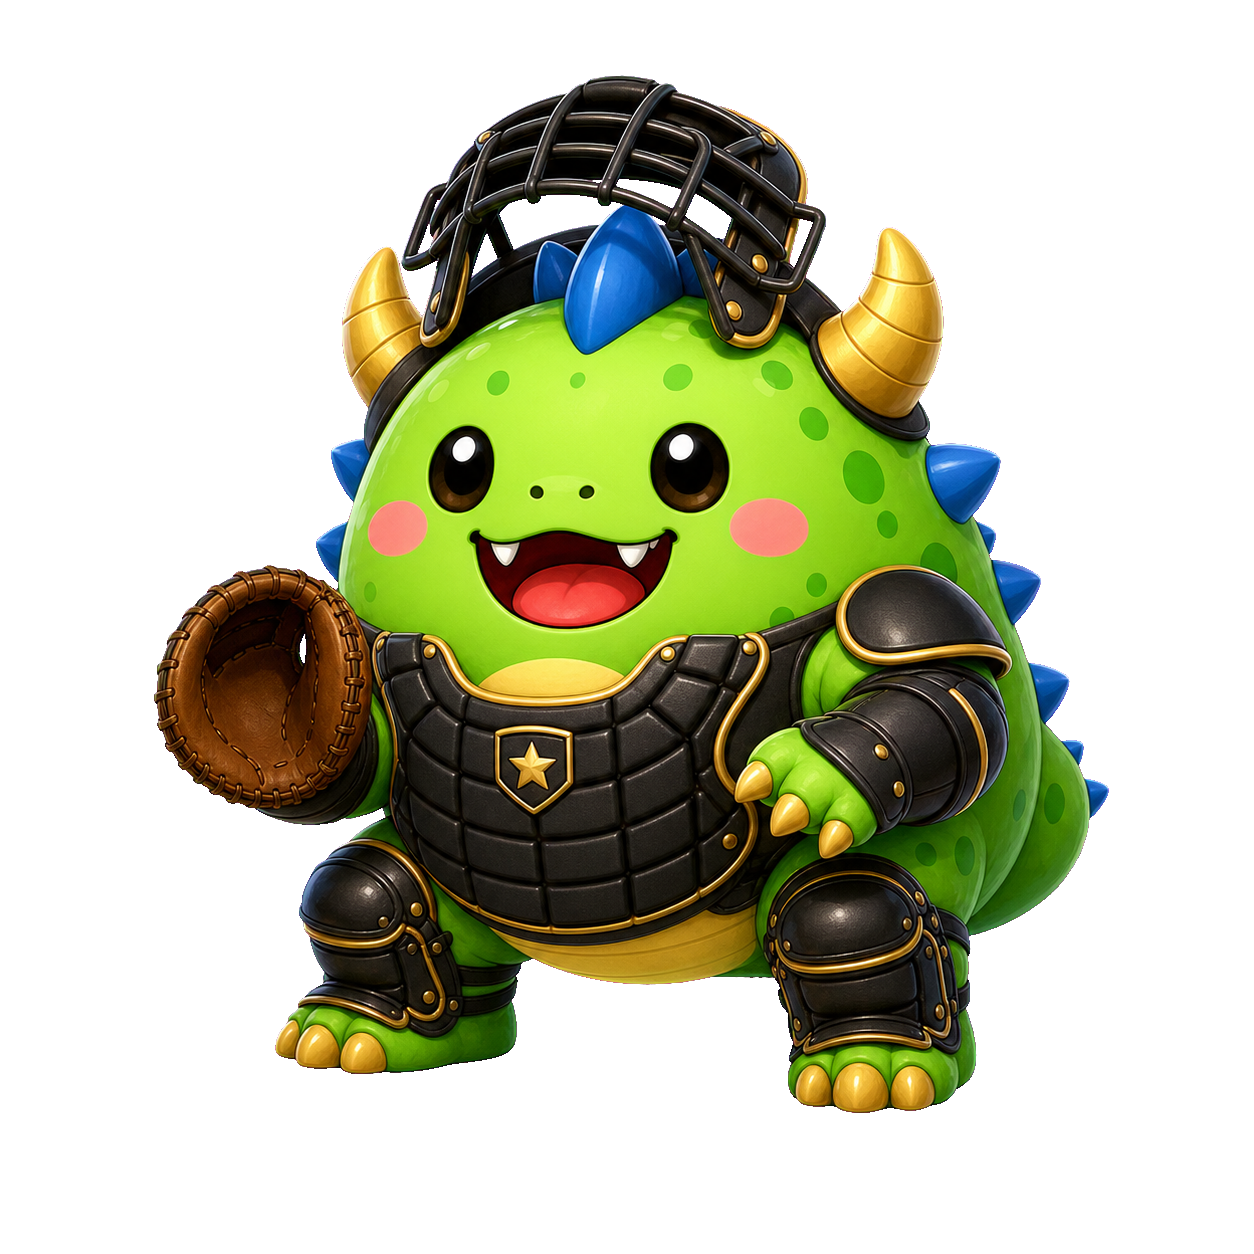
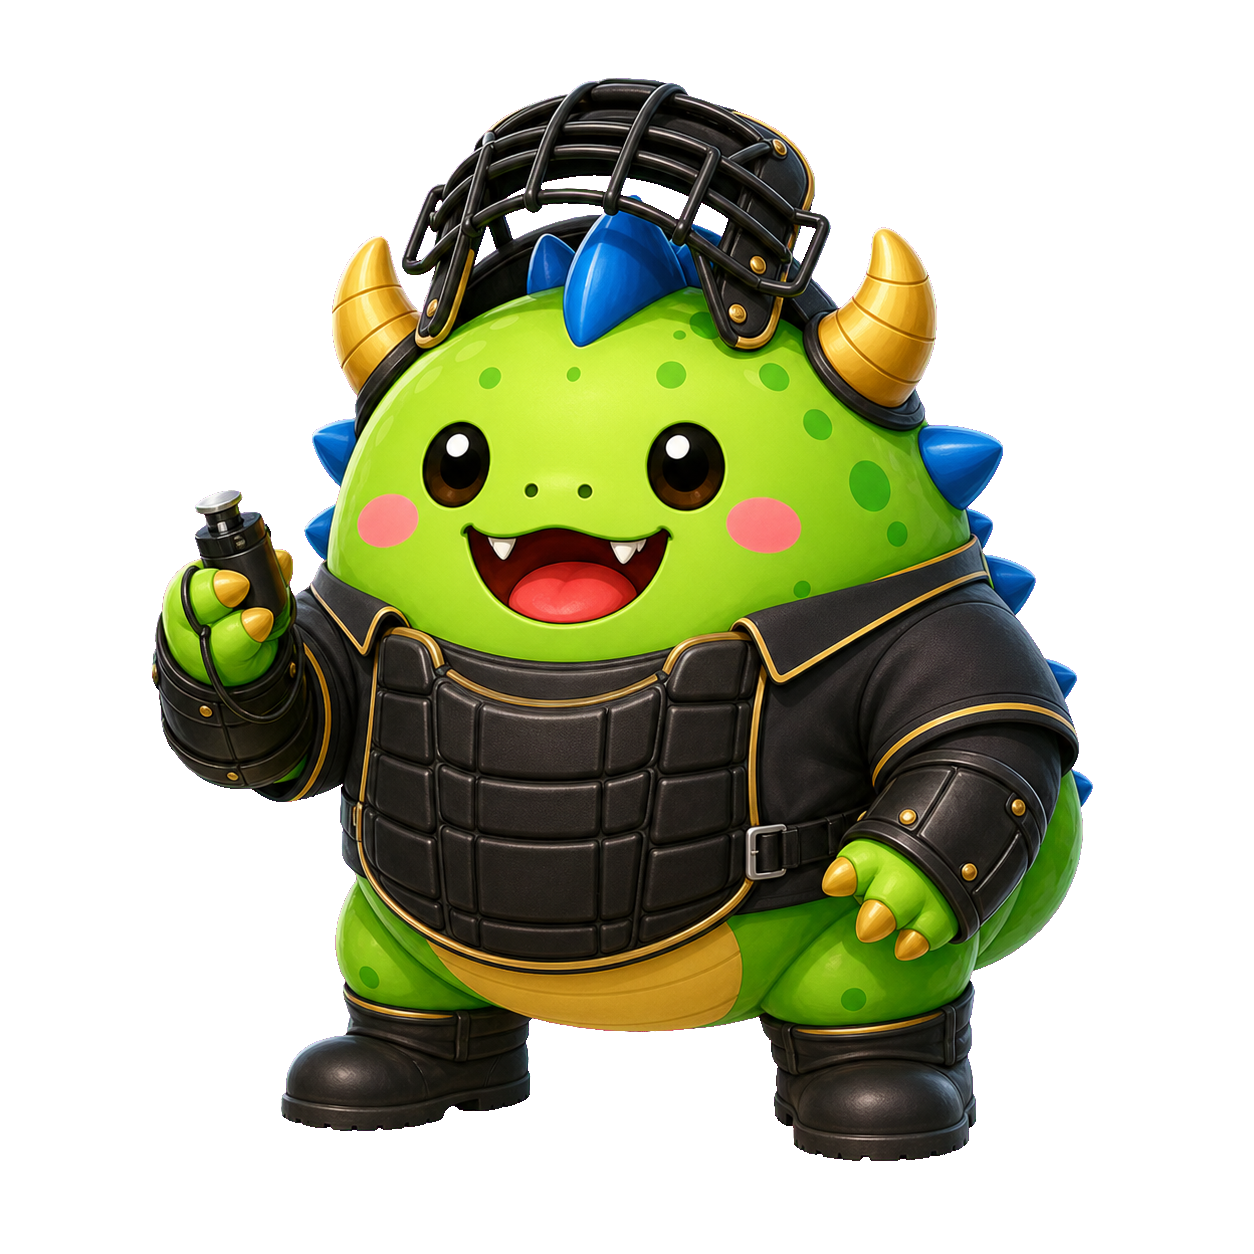
전체적인 오류 수정1

Changed region(s): [[0.1244, 0.0622, 0.9019, 0.933]]

diff --git a/script.js b/script.js
@@ -1,4 +1,5 @@
 const STORAGE_KEY = 'baseballMonsterHunterSave';
+const MAX_GOLD = 10000;
 
 const PAGE_CONFIG = {
   // 다음 화면을 별도 파일로 만들면 null 대신 실제 파일명을 넣으면 됩니다.
@@ -108,6 +109,7 @@ const DEFAULT_GAME_STATE = {
     muted: false,
   },
   claimedStageRewards: {},
+  goldCapNotified: false,
   tutorialFlags: {
     representativeBatterSet: false,
     representativePitcherSet: false,
@@ -153,7 +155,7 @@ const STAGE_CONFIGS = {
   3: {
     monsterName: 'A 몬스터',
     monsterLevel: 3,
-    maxHp: 300,
+    maxHp: 1800,
     timeLimit: 30,
     attackDamage: 10,
     criticalChance: 0.05,
@@ -165,7 +167,7 @@ const STAGE_CONFIGS = {
   4: {
     monsterName: 'A 몬스터',
     monsterLevel: 4,
-    maxHp: 450,
+    maxHp: 2700,
     timeLimit: 30,
     attackDamage: 10,
     criticalChance: 0.05,
@@ -177,7 +179,7 @@ const STAGE_CONFIGS = {
   5: {
     monsterName: 'A 몬스터',
     monsterLevel: 5,
-    maxHp: 600,
+    maxHp: 3800,
     timeLimit: 30,
     attackDamage: 10,
     criticalChance: 0.05,
@@ -189,7 +191,7 @@ const STAGE_CONFIGS = {
   6: {
     monsterName: 'A 몬스터',
     monsterLevel: 6,
-    maxHp: 780,
+    maxHp: 5100,
     timeLimit: 30,
     attackDamage: 10,
     criticalChance: 0.05,
@@ -201,7 +203,7 @@ const STAGE_CONFIGS = {
   7: {
     monsterName: 'A 몬스터',
     monsterLevel: 7,
-    maxHp: 960,
+    maxHp: 6600,
     timeLimit: 30,
     attackDamage: 10,
     criticalChance: 0.05,
@@ -213,7 +215,7 @@ const STAGE_CONFIGS = {
   8: {
     monsterName: 'A 몬스터',
     monsterLevel: 8,
-    maxHp: 1200,
+    maxHp: 8300,
     timeLimit: 30,
     attackDamage: 10,
     criticalChance: 0.05,
@@ -225,7 +227,7 @@ const STAGE_CONFIGS = {
   9: {
     monsterName: 'A 몬스터',
     monsterLevel: 9,
-    maxHp: 1500,
+    maxHp: 10200,
     timeLimit: 30,
     attackDamage: 10,
     criticalChance: 0.05,
@@ -238,7 +240,7 @@ const STAGE_CONFIGS = {
     monsterName: 'A 몬스터 BOSS',
     monsterLevel: 10,
     isBoss: true,
-    maxHp: 2400,
+    maxHp: 15000,
     timeLimit: 30,
     attackDamage: 10,
     criticalChance: 0.05,
@@ -328,6 +330,7 @@ function loadGameState() {
     return {
       ...defaultState,
       ...parsedData,
+      gold: Math.max(0, Math.min(MAX_GOLD, Math.floor(normalizeNumber(parsedData.gold)))),
       representativePlayer: {
         ...defaultState.representativePlayer,
         ...(parsedData.representativePlayer ?? {}),
@@ -377,14 +380,39 @@ function formatGold(value) {
   return `${Math.max(0, Math.floor(normalizeNumber(value))).toLocaleString('ko-KR')}G`;
 }
 
+function showGoldCapModal() {
+  $('#goldCapModal')?.classList.remove('is-hidden');
+}
+
+function setGoldAmount(value, { notifyCap = true } = {}) {
+  const previousGold = gameState.gold;
+  gameState.gold = Math.max(0, Math.min(MAX_GOLD, Math.floor(normalizeNumber(value))));
+
+  if (
+    notifyCap &&
+    previousGold < MAX_GOLD &&
+    gameState.gold >= MAX_GOLD &&
+    !gameState.goldCapNotified
+  ) {
+    gameState.goldCapNotified = true;
+    window.setTimeout(showGoldCapModal, 80);
+  }
+
+  return gameState.gold;
+}
+
+function changeGold(amount, options) {
+  return setGoldAmount(gameState.gold + normalizeNumber(amount), options);
+}
+
 function getModeName(mode) {
   return mode === 'defense' ? '수비' : '공격';
 }
 
 function getMonsterStageScale(stage) {
   const normalizedStage = Math.max(1, Math.floor(normalizeNumber(stage, 1)));
-  if (normalizedStage === 10) return 1.52;
-  return Math.min(1 + (normalizedStage - 1) * 0.055, 1.44);
+  const cappedStage = Math.min(normalizedStage, 10);
+  return 1 + (cappedStage - 1) * (0.8 / 9);
 }
 
 function getAttackConfigForStage(stage) {
@@ -399,7 +427,9 @@ function getStageMonsterDisplayName(config) {
 }
 
 function getStageClearReward(stage) {
-  return stage >= 3 && stage <= 9 ? (stage - 2) * 500 : 0;
+  if (stage >= 3 && stage <= 9) return 300;
+  if (stage === 10) return 1000;
+  return 0;
 }
 
 function getDefenseRewards() {
@@ -1236,7 +1266,7 @@ function selectPlayersSection(sectionName) {
 
 function completeBasicTutorial() {
   if (!gameState.tutorialFlags.tutorialCompletionRewardGranted) {
-    gameState.gold += 500;
+    changeGold(500);
     gameState.tutorialFlags.tutorialCompletionRewardGranted = true;
   }
   gameState.tutorialFlags.tutorialComplete = true;
@@ -1802,7 +1832,7 @@ function showDefenseResult(title, detail = '', resultType = '') {
 }
 
 function addDefenseGold(amount) {
-  gameState.gold = Math.max(0, Math.floor(gameState.gold + amount));
+  changeGold(amount);
   saveGameState();
   renderCommonStatus();
 }
@@ -1823,7 +1853,7 @@ function completeDefensePitchTutorialStep() {
 
   gameState.tutorialFlags.defenseSupportGranted = true;
   gameState.tutorialFlags.tutorialStep = 'defenseSupport';
-  gameState.gold += 100;
+  changeGold(100);
   saveGameState();
   renderCommonStatus();
   stopDefenseMode();
@@ -2049,6 +2079,8 @@ function hideAllModals() {
   $('#resetConfirmModal')?.classList.add('is-hidden');
   $('#modeSwitchModal')?.classList.add('is-hidden');
   $('#synergyIntroModal')?.classList.add('is-hidden');
+  $('#betaCompleteModal')?.classList.add('is-hidden');
+  $('#goldCapModal')?.classList.add('is-hidden');
   if (gameState.tutorialFlags.tutorialComplete) {
     $('#tutorialCompleteModal')?.classList.add('is-hidden');
   }
@@ -2081,7 +2113,7 @@ function showStageClearModal() {
   }
 
   if (reward > 0 && !gameState.claimedStageRewards[gameState.currentStage]) {
-    gameState.gold += reward;
+    changeGold(reward);
     gameState.claimedStageRewards[gameState.currentStage] = true;
     saveGameState();
     renderCommonStatus();
@@ -2171,7 +2203,16 @@ function confirmStageClear() {
   }
 
   hideStageClearModal();
-  showToast('A 몬스터 BOSS를 물리쳤습니다!');
+  stopAttackTutorial();
+  $('#betaCompleteModal')?.classList.remove('is-hidden');
+}
+
+function finishBetaAndStartDefense() {
+  $('#betaCompleteModal')?.classList.add('is-hidden');
+  gameState.currentMode = 'defense';
+  saveGameState();
+  startDefenseMode();
+  showToast('베타 스테이지 완료! 수비 모드에서 선수들을 계속 육성할 수 있습니다.');
 }
 
 function openModeSwitchConfirmation() {
@@ -2218,7 +2259,7 @@ function confirmModeSwitch() {
 function beginSynergyPlayerGuidance() {
   $('#synergyIntroModal')?.classList.add('is-hidden');
   if (!gameState.tutorialFlags.synergySupportGranted) {
-    gameState.gold += 100;
+    changeGold(100);
     gameState.tutorialFlags.synergySupportGranted = true;
   }
   gameState.tutorialFlags.tutorialStep = 'openPlayersForSynergy';
@@ -2412,6 +2453,10 @@ function initAttackScreen() {
     $('#modeSwitchModal')?.classList.add('is-hidden');
   });
   $('#synergyIntroConfirmButton')?.addEventListener('click', beginSynergyPlayerGuidance);
+  $('#betaCompleteConfirmButton')?.addEventListener('click', finishBetaAndStartDefense);
+  $('#goldCapConfirmButton')?.addEventListener('click', () => {
+    $('#goldCapModal')?.classList.add('is-hidden');
+  });
   $$('.defense-rule-item').forEach((button) => {
     button.addEventListener('click', () => {
       showDefenseRuleTooltip(button);
@@ -2582,14 +2627,14 @@ window.BaseballMonsterHunter = {
     return JSON.parse(JSON.stringify(gameState));
   },
   setGold(value) {
-    gameState.gold = Math.max(0, Math.floor(normalizeNumber(value)));
+    setGoldAmount(value);
     saveGameState();
     renderRepresentativeScreen();
     renderAttackScreen();
     renderPlayersScreen();
   },
   addGold(amount) {
-    gameState.gold = Math.max(0, Math.floor(gameState.gold + normalizeNumber(amount)));
+    changeGold(amount);
     saveGameState();
     renderRepresentativeScreen();
     renderAttackScreen();

diff --git a/style.css b/style.css
@@ -1890,6 +1890,15 @@ button {
   backdrop-filter: blur(4px);
 }
 
+.global-modal {
+  position: fixed;
+  width: var(--screen-width);
+  height: var(--screen-height);
+  left: 50%;
+  top: 50%;
+  transform: translate(-50%, -50%);
+}
+
 .player-action-card {
   position: relative;
   width: min(100%, 420px);
@@ -1914,21 +1923,6 @@ button {
     inset 0 2px 8px rgba(255, 255, 255, 0.18),
     0 19px 38px rgba(0, 0, 0, 0.54),
     0 0 25px rgba(255, 219, 76, 0.22);
-}
-
-.tutorial-complete-emblem {
-  display: grid;
-  place-items: center;
-  width: 66px;
-  height: 66px;
-  margin: 0 auto 10px;
-  border: 3px solid #fff3aa;
-  border-radius: 50%;
-  color: #563500;
-  background: linear-gradient(180deg, #fff287, #ffb718);
-  font-size: 36px;
-  text-shadow: 0 1px 0 #fff;
-  box-shadow: 0 0 19px rgba(255, 222, 91, 0.65);
 }
 
 .tutorial-complete-card h2 {

diff --git a/index.html b/index.html
@@ -353,7 +353,6 @@
 
       <div id="tutorialCompleteModal" class="recruit-modal is-hidden" role="dialog" aria-modal="true" aria-labelledby="tutorialCompleteTitle">
         <div class="tutorial-complete-card">
-          <span class="tutorial-complete-emblem" aria-hidden="true">★</span>
           <p class="recruit-modal-kicker">TUTORIAL COMPLETE</p>
           <h2 id="tutorialCompleteTitle">기본 튜토리얼 완료!</h2>
           <p>이제 게임의 기본적인 진행 방법을 모두 익혔습니다.</p>
@@ -585,8 +584,28 @@
           <button id="synergyIntroConfirmButton" class="defense-support-button" type="button">확인</button>
         </div>
       </div>
+
+      <div id="betaCompleteModal" class="recruit-modal is-hidden" role="dialog" aria-modal="true" aria-labelledby="betaCompleteTitle">
+        <div class="tutorial-complete-card">
+          <p class="recruit-modal-kicker">BETA COMPLETE</p>
+          <h2 id="betaCompleteTitle">모든 몬스터 처치 완료!</h2>
+          <p>현재 베타 버전에서 도전할 수 있는 모든 몬스터를 처치했습니다.</p>
+          <strong>다음 업데이트에서 새로운 스테이지와<br />더 강한 몬스터를 기대해 주세요!</strong>
+          <button id="betaCompleteConfirmButton" class="stage-clear-button" type="button">확인</button>
+        </div>
+      </div>
+
     </section>
 
+    <div id="goldCapModal" class="recruit-modal global-modal is-hidden" role="dialog" aria-modal="true" aria-labelledby="goldCapTitle">
+      <div class="recruit-confirm-card">
+        <p class="recruit-modal-kicker">GOLD MAX</p>
+        <h2 id="goldCapTitle">골드 보유량 상한!</h2>
+        <p>현재 골드 보유량 상한인 <strong>10,000G</strong>에 도달했습니다.</p>
+        <p>더 이상 골드를 획득할 수 없습니다.</p>
+        <button id="goldCapConfirmButton" class="stage-clear-button" type="button">확인</button>
+      </div>
+    </div>
 
     <p id="toast" class="toast" role="status" aria-live="polite"></p>
   </main>